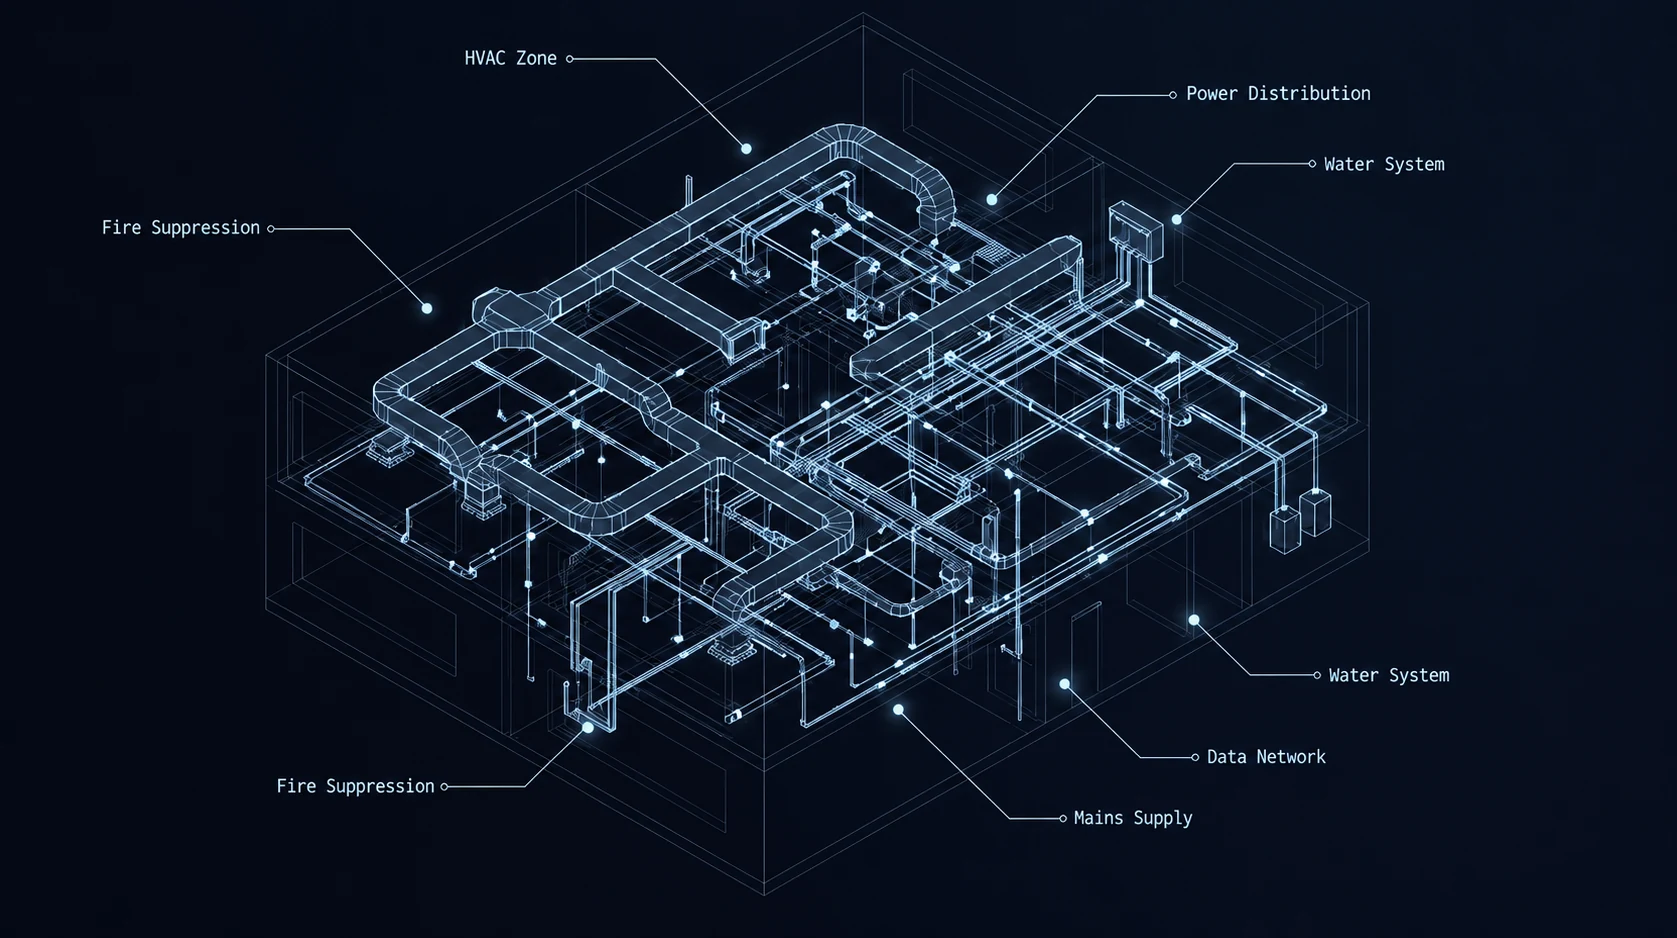
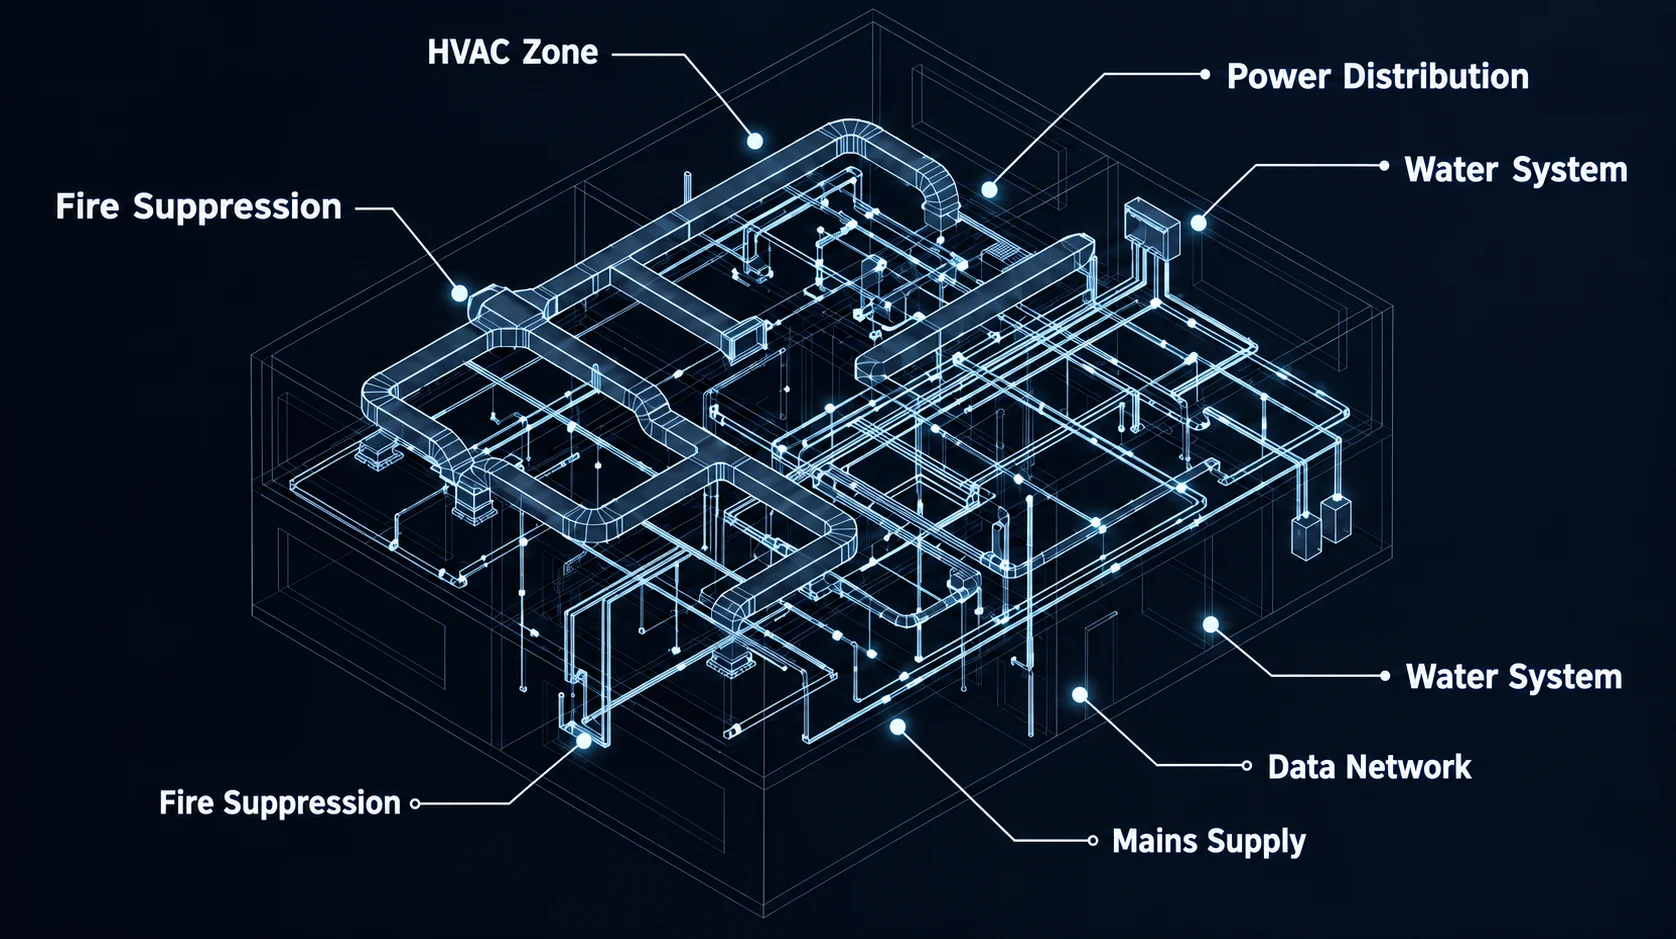
final edits done

diff --git a/src/pages/HomePage.tsx b/src/pages/HomePage.tsx
@@ -219,7 +219,7 @@ export const HomePage: React.FC<HomePageProps> = ({ onNavigate }) => {
               {/* Luxury Villas Sector */}
               <div className="bg-surface p-6 md:p-8 border border-outline-variant row-span-2 flex flex-col justify-end relative overflow-hidden group shadow-sm">
                 <img
-                  src="/images/Nakheel/luury_villa.webp"
+                  src="/images/Nakheel/luxury townhouse.webp"
                   alt="Luxury Villas Sector"
                   className="absolute inset-0 w-full h-full object-cover transition-transform duration-700 group-hover:scale-105"
                 />
@@ -436,8 +436,8 @@ export const HomePage: React.FC<HomePageProps> = ({ onNavigate }) => {
               <div className="flex flex-col md:flex-row md:items-end justify-between mb-16 gap-6 border-b border-outline-variant pb-8">
                 <div>
                   <div className="flex items-center gap-2 mb-3">
-                    <div className="w-2 h-2 bg-[#E90046]"></div>
-                    <span className="font-technical-data text-xs text-[#E90046] uppercase tracking-[0.25em] font-semibold">
+                    <div className="w-2.5 h-2.5 bg-[#E90046]"></div>
+                    <span className="font-technical-data text-sm md:text-base text-[#E90046] uppercase tracking-[0.2em] font-bold">
                       SIGNATURE IMPLEMENTATIONS
                     </span>
                   </div>
@@ -466,7 +466,7 @@ export const HomePage: React.FC<HomePageProps> = ({ onNavigate }) => {
                     </div>
                   </div>
                   <div className="lg:col-span-5 flex flex-col justify-center">
-                    <span className="font-technical-data text-xs text-[#E90046] uppercase tracking-widest font-semibold mb-3">
+                    <span className="font-technical-data text-sm md:text-base text-[#E90046] uppercase tracking-widest font-bold mb-3">
                       RESIDENTIAL &bull; MEP CONTRACTING
                     </span>
                     <h3 className="font-headline-lg text-3xl md:text-4xl text-on-surface font-bold mb-4 leading-tight">
@@ -496,7 +496,7 @@ export const HomePage: React.FC<HomePageProps> = ({ onNavigate }) => {
               <ScrollReveal>
                 <div className="grid grid-cols-1 lg:grid-cols-12 gap-8 lg:gap-12 items-center border-b border-outline-variant pb-16">
                   <div className="lg:col-span-5 order-2 lg:order-1 flex flex-col justify-center">
-                    <span className="font-technical-data text-xs text-[#E90046] uppercase tracking-widest font-semibold mb-3">
+                    <span className="font-technical-data text-sm md:text-base text-[#E90046] uppercase tracking-widest font-bold mb-3">
                       TOWNHOUSE COMMUNITY &bull; MEP SERVICES
                     </span>
                     <h3 className="font-headline-lg text-3xl md:text-4xl text-on-surface font-bold mb-4 leading-tight">
@@ -561,7 +561,7 @@ export const HomePage: React.FC<HomePageProps> = ({ onNavigate }) => {
                     </div>
                   </div>
                   <div className="lg:col-span-5 flex flex-col justify-center">
-                    <span className="font-technical-data text-xs text-[#E90046] uppercase tracking-widest font-semibold mb-3">
+                    <span className="font-technical-data text-sm md:text-base text-[#E90046] uppercase tracking-widest font-bold mb-3">
                       EXCLUSIVE VILLA ESTATE &bull; HIGH-SPEC MEP
                     </span>
                     <h3 className="font-headline-lg text-3xl md:text-4xl text-on-surface font-bold mb-4 leading-tight">

diff --git a/src/components/Footer.tsx b/src/components/Footer.tsx
@@ -32,8 +32,8 @@ export const Footer: React.FC<FooterProps> = ({ onNavigate }) => {
 
   return (
     <footer className="bg-[#0F172A] text-white relative h-fit overflow-hidden border-t border-outline-variant mt-auto">
-      <div className="max-w-[1440px] mx-auto p-5 sm:p-8 md:p-14 z-40 relative">
-        <div className="grid grid-cols-1 md:grid-cols-2 lg:grid-cols-4 gap-10 md:gap-8 lg:gap-12 pb-10">
+      <div className="max-w-[1440px] mx-auto p-5 sm:p-8 md:p-14 pb-0 md:pb-0 z-40 relative">
+        <div className="grid grid-cols-1 md:grid-cols-2 lg:grid-cols-4 gap-10 md:gap-8 lg:gap-12">
           
           {/* Brand section */}
           <div className="flex flex-col space-y-4">
@@ -126,19 +126,21 @@ export const Footer: React.FC<FooterProps> = ({ onNavigate }) => {
             </ul>
           </div>
         </div>
+      </div>
 
-        <hr className="border-t border-white/10 my-6" />
+      {/* SVG Interactive Text Reveal Effect (ALMASRA) */}
+      <div className="lg:flex hidden h-[10rem] sm:h-[13rem] md:h-[16rem] mt-10 md:mt-14 -mb-4 md:-mb-6 justify-center items-center pointer-events-auto z-40 relative max-w-[1440px] mx-auto px-5">
+        <TextHoverEffect text="ALMASRA" className="z-40" />
+      </div>
 
-        {/* Footer bottom */}
+      {/* Footer bottom bar (placed below ALMASRA text) */}
+      <div className="max-w-[1440px] mx-auto px-5 sm:px-8 md:px-14 pb-6 pt-0 z-40 relative">
+        <hr className="border-t border-white/10 mb-4" />
+
         <div className="flex flex-col md:flex-row justify-between items-center text-xs font-technical-data text-white/60 space-y-3 md:space-y-0">
           <p>© {new Date().getFullYear()} ALMASRA TECHNICAL SERVICES EST. ALL RIGHTS RESERVED.</p>
           <span className="text-[#E90046]">EXCEL PAR EXCELLENCE</span>
         </div>
-      </div>
-
-      {/* SVG Interactive Text Reveal Effect (ALMASRA) */}
-      <div className="lg:flex hidden h-[22rem] -mt-44 -mb-28 justify-center items-center pointer-events-auto z-50">
-        <TextHoverEffect text="ALMASRA" className="z-50" />
       </div>
 
       <FooterBackgroundGradient />

diff --git a/src/pages/ProjectsPage.tsx b/src/pages/ProjectsPage.tsx
@@ -50,10 +50,12 @@ const projectsList: ProjectData[] = [
       '/images/QUATTRO DELMAR/12.webp',
       '/images/QUATTRO DELMAR/8.webp',
       '/images/QUATTRO DELMAR/9.webp',
+      '/images/QUATTRO DELMAR/WhatsApp Image 2026-08-06 at 11.25.4.webp',
       '/images/QUATTRO DELMAR/WhatsApp Image 2026-08-06 at 11.25.47 (2).webp',
       '/images/QUATTRO DELMAR/WhatsApp Image 2026-08-06 at 11.25.48 (1).webp',
       '/images/QUATTRO DELMAR/WhatsApp Image 2026-08-06 at 11.25.49.webp',
       '/images/QUATTRO DELMAR/WhatsApp Image 2026-08-06 at 11.25.50 (2).webp',
+      '/images/QUATTRO DELMAR/WhatsApp Image 2026-08-06 at 11.25.51.webp',
       '/images/QUATTRO DELMAR/WhatsApp Image 2026-08-06 at 11.25.55.webp',
       '/images/QUATTRO DELMAR/WhatsApp Image 2026-08-06 at 11.25.57 (3).webp',
     ],
@@ -67,7 +69,6 @@ const projectsList: ProjectData[] = [
     category: '3 BHK, 4 BHK & 5 BHK Luxury Villas & Townhouses',
     scope: 'Electrical & Plumbing Works',
     images: [
-      '/images/Nakheel/luury_villa.webp',
       '/images/Nakheel/luxury townhouse.webp',
       '/images/Nakheel/1.webp',
       '/images/Nakheel/4.webp',
@@ -97,6 +98,8 @@ const projectsList: ProjectData[] = [
       '/images/opal/ChatGPT Image Sep 14, 2026, 11_57_02 AM.webp',
       '/images/opal/ChatGPT Image Sep 14, 2026, 11_59_31 AM.webp',
       '/images/opal/ChatGPT Image Sep 14, 2026, 12_01_31 PM.webp',
+      '/images/opal/ChatGPT Image Sep 17, 2026, 03_16_46 PM.webp',
+      '/images/opal/ChatGPT Image Sep 17, 2026, 03_16_55 PM.webp',
     ],
   },
   {

diff --git a/src/pages/AboutPage.tsx b/src/pages/AboutPage.tsx
@@ -10,7 +10,7 @@ export const AboutPage: React.FC<AboutPageProps> = ({ onNavigate }) => {
     { src: '/images/commercial1.webp', label: 'Commercial Infrastructure' },
     { src: '/images/industrial2.webp', label: 'Industrial MEP Solutions' },
     { src: '/images/Nakheel/10.webp', label: 'Residential Developments' },
-    { src: '/images/Nakheel/luury_villa.webp', label: 'Luxury Villa Projects' },
+    { src: '/images/Nakheel/luxury townhouse.webp', label: 'Luxury Villa Projects' },
   ];
 
   const [activeImageIndex, setActiveImageIndex] = useState(0);

diff --git a/src/components/ui/hover-footer.tsx b/src/components/ui/hover-footer.tsx
@@ -51,7 +51,7 @@ export const TextHoverEffect = ({
       ref={svgRef}
       width="100%"
       height="100%"
-      viewBox="0 0 300 100"
+      viewBox="0 5 300 90"
       xmlns="http://www.w3.org/2000/svg"
       onMouseEnter={() => setHovered(true)}
       onMouseLeave={() => setHovered(false)}
